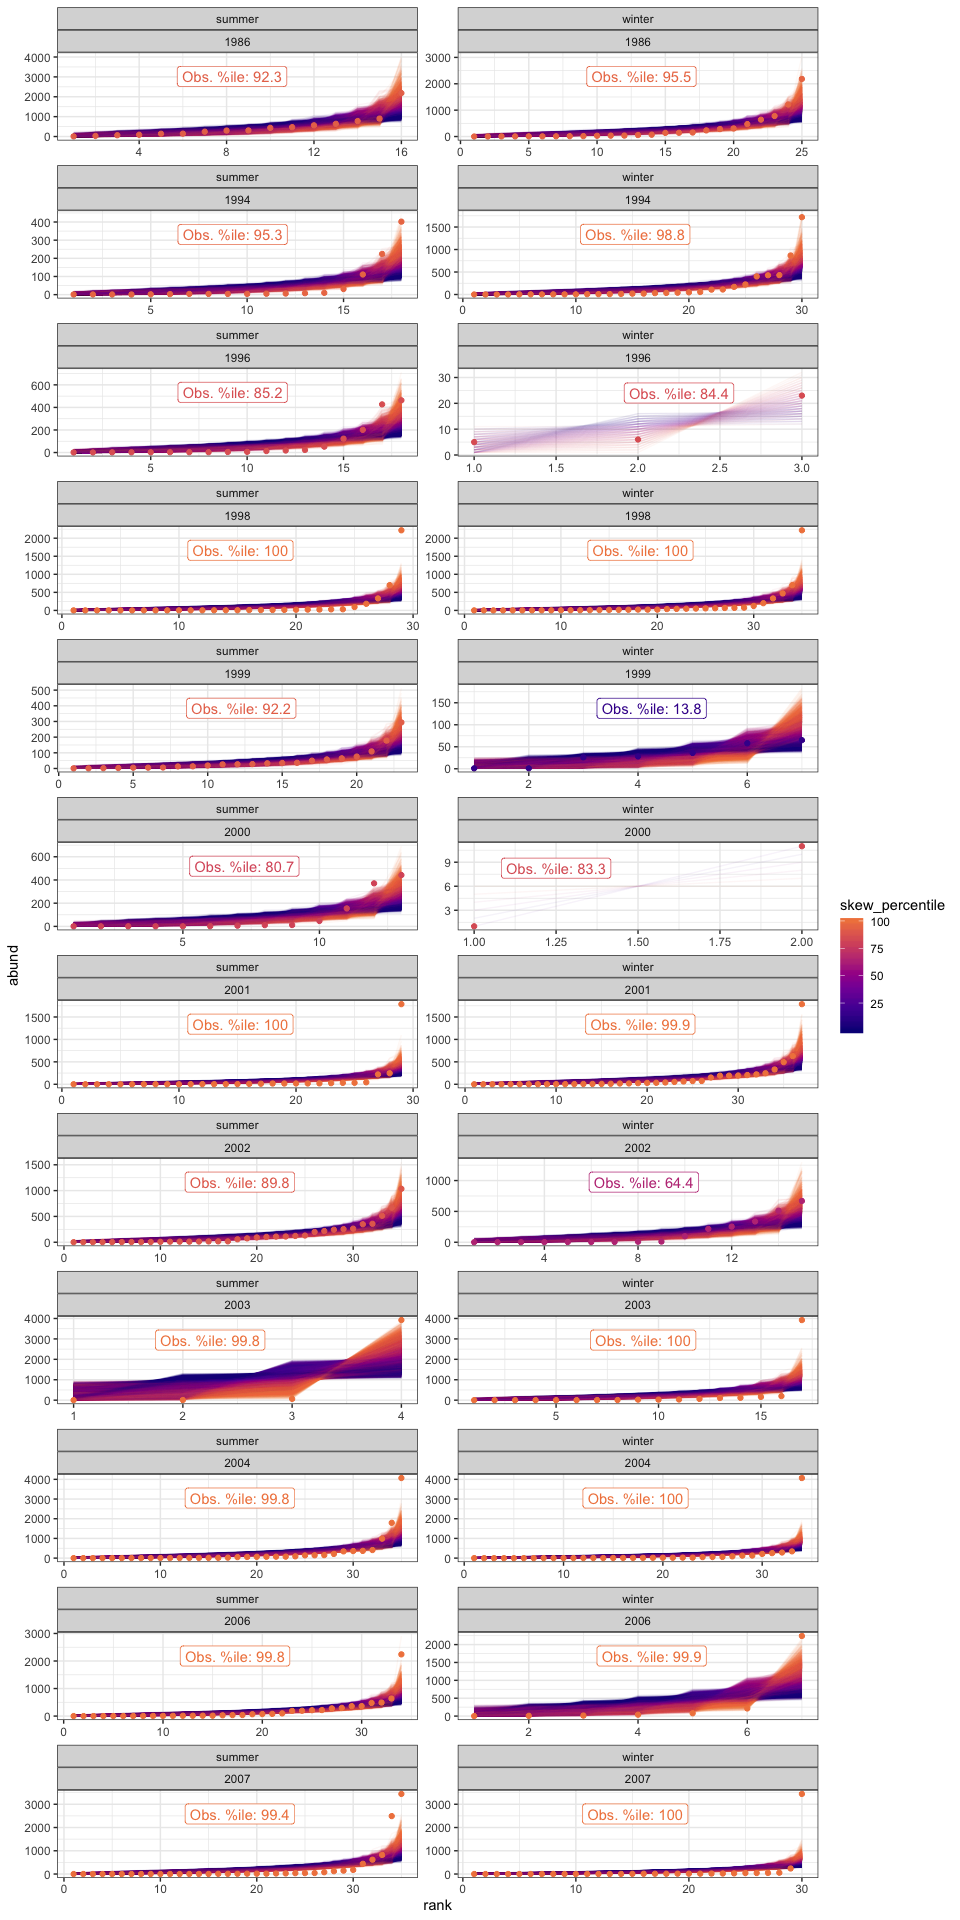
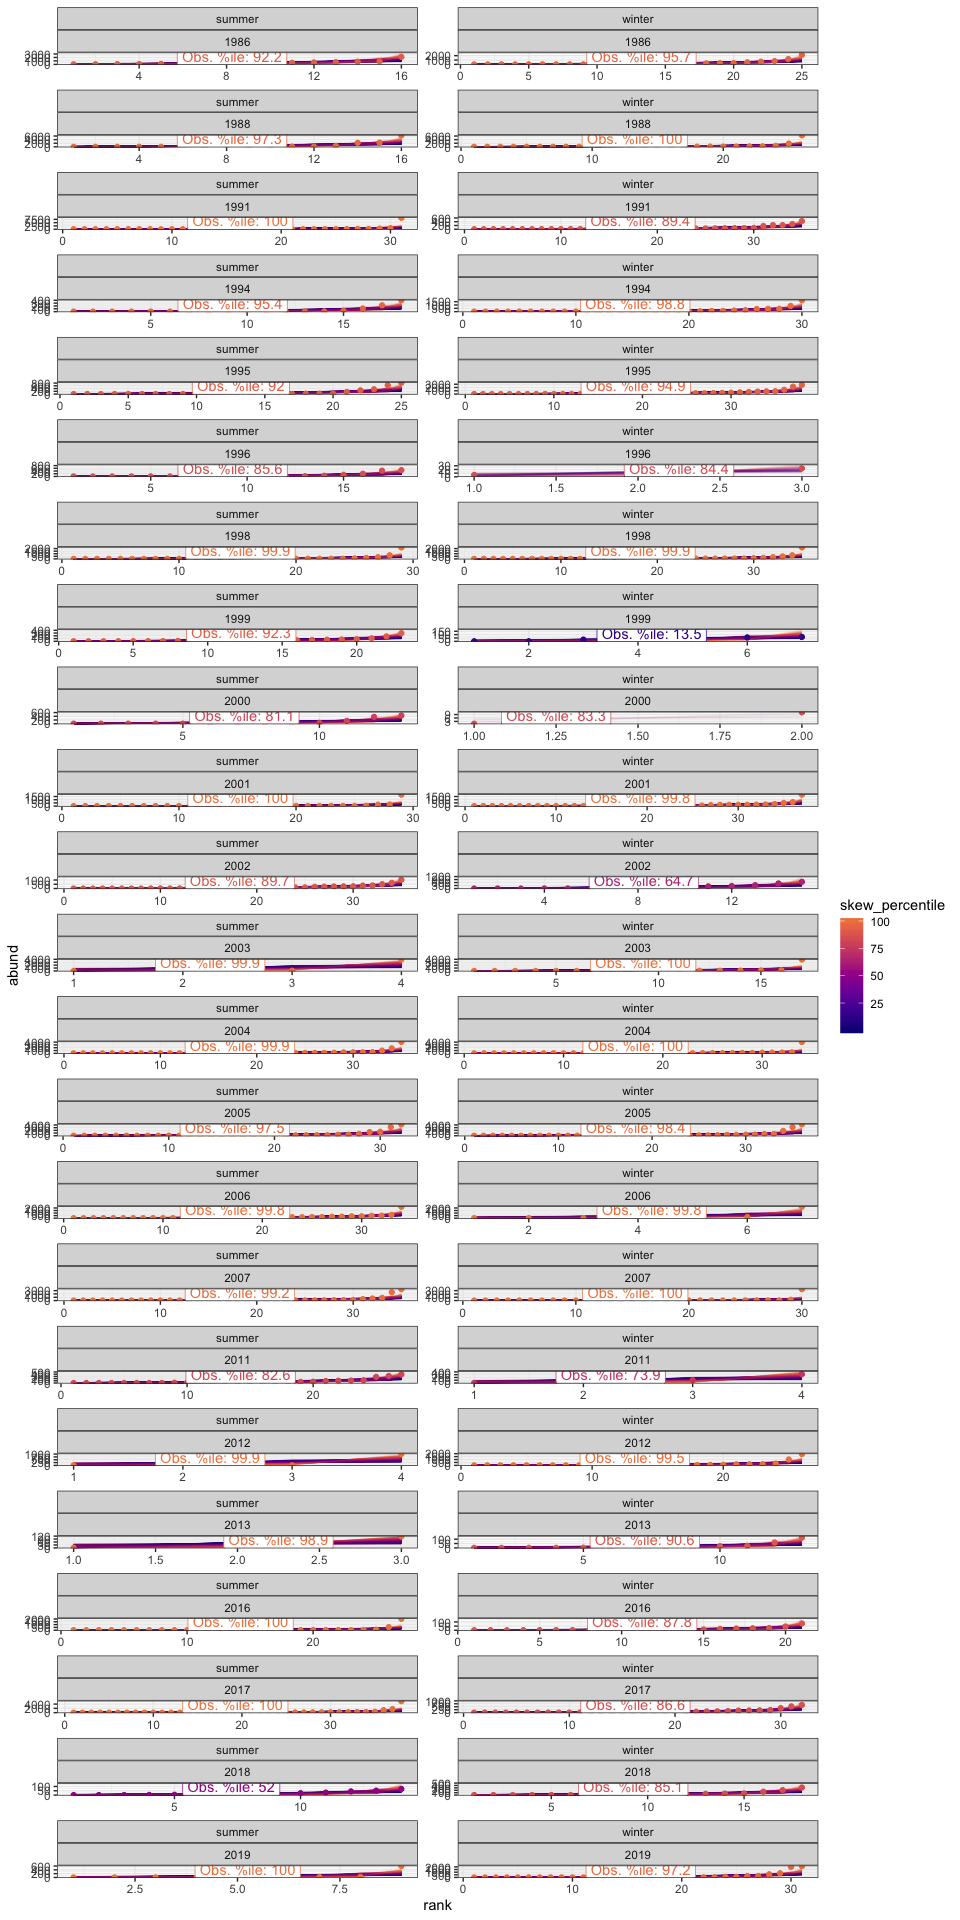
report

diff --git a/analysis/reports/skewness.md b/analysis/reports/skewness.md
@@ -3,20 +3,20 @@ Skewness report
 
 ### Is skewness unique to an element of the FS?
 
-    ## # A tibble: 26 x 5
+    ## # A tibble: 48 x 5
     ##     year season treatment n_elements n_skews
-    ##    <dbl> <chr>  <chr>          <int>   <int>
+    ##    <int> <chr>  <chr>          <int>   <int>
     ##  1  1986 summer control        10001   10001
     ##  2  1986 winter control        10001   10001
-    ##  3  1994 summer control        10001   10001
-    ##  4  1994 winter control        10001   10001
-    ##  5  1996 summer control        10001   10001
-    ##  6  1996 winter control           97      92
-    ##  7  1998 summer control        10001   10001
-    ##  8  1998 winter control        10001   10001
-    ##  9  1999 summer control        10001   10001
-    ## 10  1999 winter control        10000    9998
-    ## # … with 16 more rows
+    ##  3  1988 summer control        10001   10001
+    ##  4  1988 winter control        10001   10001
+    ##  5  1991 summer control        10001   10001
+    ##  6  1991 winter control        10001   10001
+    ##  7  1994 summer control        10001   10001
+    ##  8  1994 winter control        10001   10001
+    ##  9  1995 summer control        10001   10001
+    ## 10  1995 winter control        10001   10001
+    ## # … with 38 more rows
 
 Skewness is not entirely unique to an element of the FS, but you don't get re-used skews until you have extremely small feasible sets.
 
@@ -29,7 +29,7 @@ Skewness is not entirely unique to an element of the FS, but you don't get re-us
 
     ## Warning: Removed 1 rows containing missing values (geom_point).
 
-![](skewness_files/figure-markdown_github/skewness%20violins-1.png)
+![](skewness_files/figure-markdown_github/dist%20of%20skew-1.png)
 
 2009 is problematic because the communities are very small (S = 1 and 3, N = 2 and 5 respectively). Similarly, winter of 2000 had 12 individuals of 2 species. Notably, winter 1996 had 34 individuals of 3 species, and this appears to be enough to get some interesting variation going.
 
@@ -37,19 +37,27 @@ So far, this result contrasts with what I was finding earlier. Skewness is not a
 
 If this holds (and perhaps even if it doesn't) perhaps it's worth re-investigating Legendre approximation over a broader set of datasets. It looks like the ones I pulled might have been unusual.
 
-### Heatmaps
+### Frequency of skewness percentiles
 
     ## Warning in max(filter(this_pool, skew <= observed_percentile$skew[i])
     ## $skew_rank): no non-missing arguments to max; returning -Inf
 
-![](skewness_files/figure-markdown_github/heatmap%20of%20fs-1.png)
+    ## Warning: Removed 1 rows containing non-finite values (stat_ydensity).
+
+![](skewness_files/figure-markdown_github/skewness%20percentile%20hist-1.png)
+
+### Percentile vs S and N
+
+    ## Warning: Removed 2 rows containing missing values (geom_point).
+
+    ## Warning: Removed 2 rows containing missing values (geom_point).
+
+![](skewness_files/figure-markdown_github/percentile%20s%20n-1.png)![](skewness_files/figure-markdown_github/percentile%20s%20n-2.png)
+
+### Heatmaps
+
+![](skewness_files/figure-markdown_github/heatmaps-1.png)
 
 ### Relating observed skewness to S and N
-
-    ## $title
-    ## [1] "Skewness vs S"
-    ## 
-    ## attr(,"class")
-    ## [1] "labels"
 
 ![](skewness_files/figure-markdown_github/obs%20S%20and%20N-1.png)
